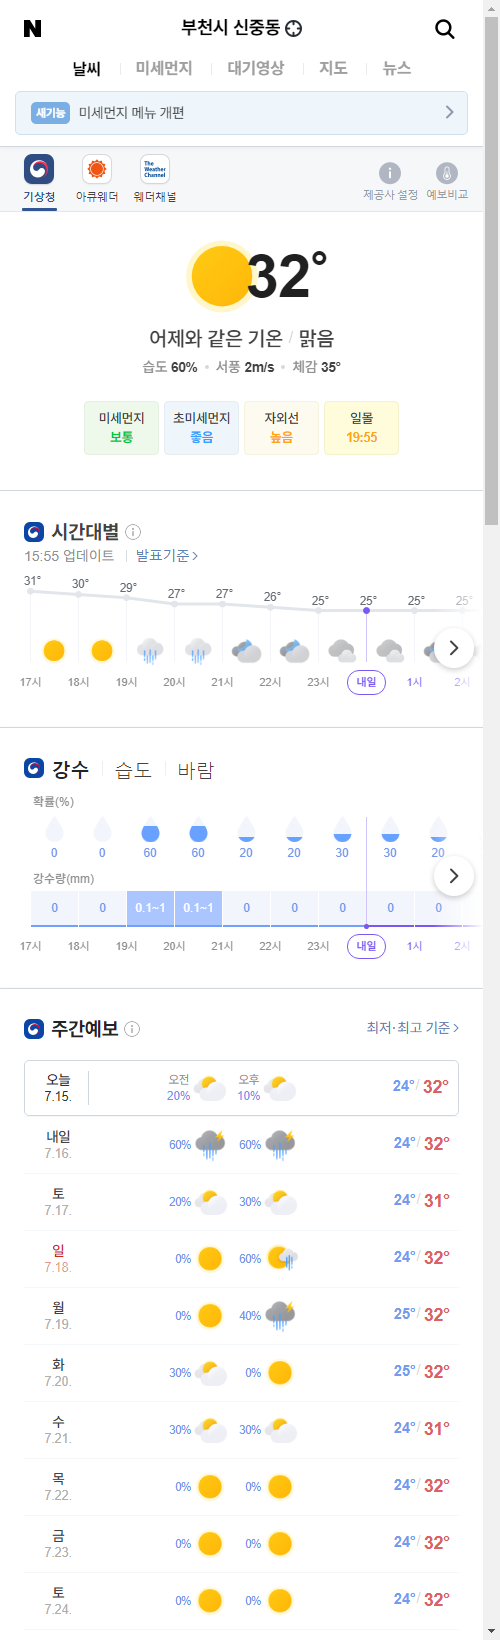
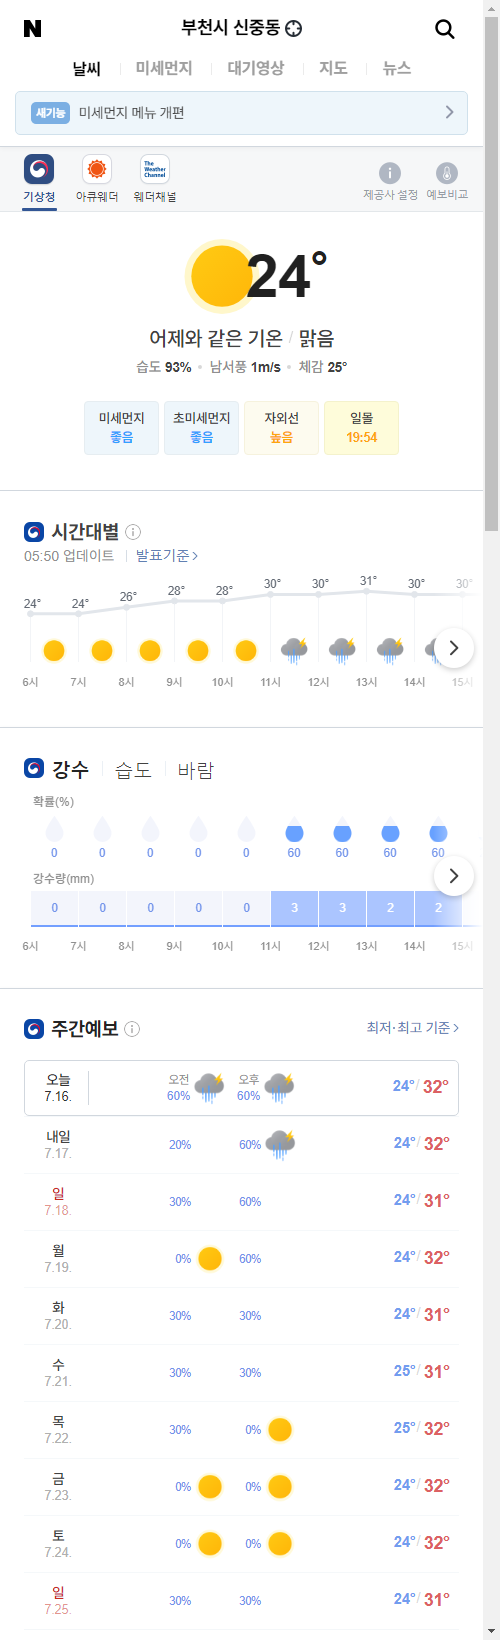
update result

diff --git a/README.md b/README.md
@@ -1,5 +1,5 @@
-##  2021-07-15 16:02:42   목요일 
-##### 날씨   -   어제보다 1° 높아요맑음  
+##  2021-07-16 05:55:13   금요일 
+##### 날씨   -   어제와 같은 기온맑음  
 <center><img src="../img/naver_weather_week.png"></center>
 ----
 ----
@@ -13,11 +13,11 @@
 ##### 세계
 <table border="1" bordercolor="blue" align = "center" >
 <tr align = "right" > <td>Item</td><td>Point</td><td>Diff</td><td>Rate</td><td>Buy</td><td>Sell</td><td>...</td>  </tr>
-<tr align = "right" > <td>DOW</td><td>34,933.23</td><td>44.44</td><td><font size="3" color="red" >0.13%</font></td><td><font size="3" color="black">0</font></td><td><font size="3" color="black">0</font></td><td>0</td>  </tr>
-<tr align = "right" > <td>NASDAQ</td><td>14,644.95</td><td>-32.7</td><td><font size="3" color="blue" >-0.22%</font></td><td><font size="3" color="black">0</font></td><td><font size="3" color="black">0</font></td><td>0</td>  </tr>
-<tr align = "right" > <td>S&P</td><td>4,374.3</td><td>5.09</td><td><font size="3" color="red" >0.12%</font></td><td><font size="3" color="black">0</font></td><td><font size="3" color="black">0</font></td><td>0</td>  </tr>
-<tr align = "right" > <td>SHANHAI</td><td>3,562.11</td><td>33.61</td><td><font size="3" color="red" >0.95%</font></td><td><font size="3" color="black">0</font></td><td><font size="3" color="black">0</font></td><td>0</td>  </tr>
-<tr align = "right" > <td>INDIA</td><td>53,208.38</td><td>304.33</td><td><font size="3" color="red" >0.58%</font></td><td><font size="3" color="black">0</font></td><td><font size="3" color="black">0</font></td><td>0</td>  </tr>
+<tr align = "right" > <td>DOW</td><td>34,987.02</td><td>53.79</td><td><font size="3" color="red" >0.15%</font></td><td><font size="3" color="black">0</font></td><td><font size="3" color="black">0</font></td><td>0</td>  </tr>
+<tr align = "right" > <td>NASDAQ</td><td>14,543.13</td><td>-101.82</td><td><font size="3" color="blue" >-0.7%</font></td><td><font size="3" color="black">0</font></td><td><font size="3" color="black">0</font></td><td>0</td>  </tr>
+<tr align = "right" > <td>S&P</td><td>4,360.03</td><td>-14.27</td><td><font size="3" color="blue" >-0.33%</font></td><td><font size="3" color="black">0</font></td><td><font size="3" color="black">0</font></td><td>0</td>  </tr>
+<tr align = "right" > <td>SHANHAI</td><td>3,564.59</td><td>36.09</td><td><font size="3" color="red" >1.02%</font></td><td><font size="3" color="black">0</font></td><td><font size="3" color="black">0</font></td><td>0</td>  </tr>
+<tr align = "right" > <td>INDIA</td><td>53,158.85</td><td>254.8</td><td><font size="3" color="red" >0.48%</font></td><td><font size="3" color="black">0</font></td><td><font size="3" color="black">0</font></td><td>0</td>  </tr>
 </table>
 ----
 ##### 시장
